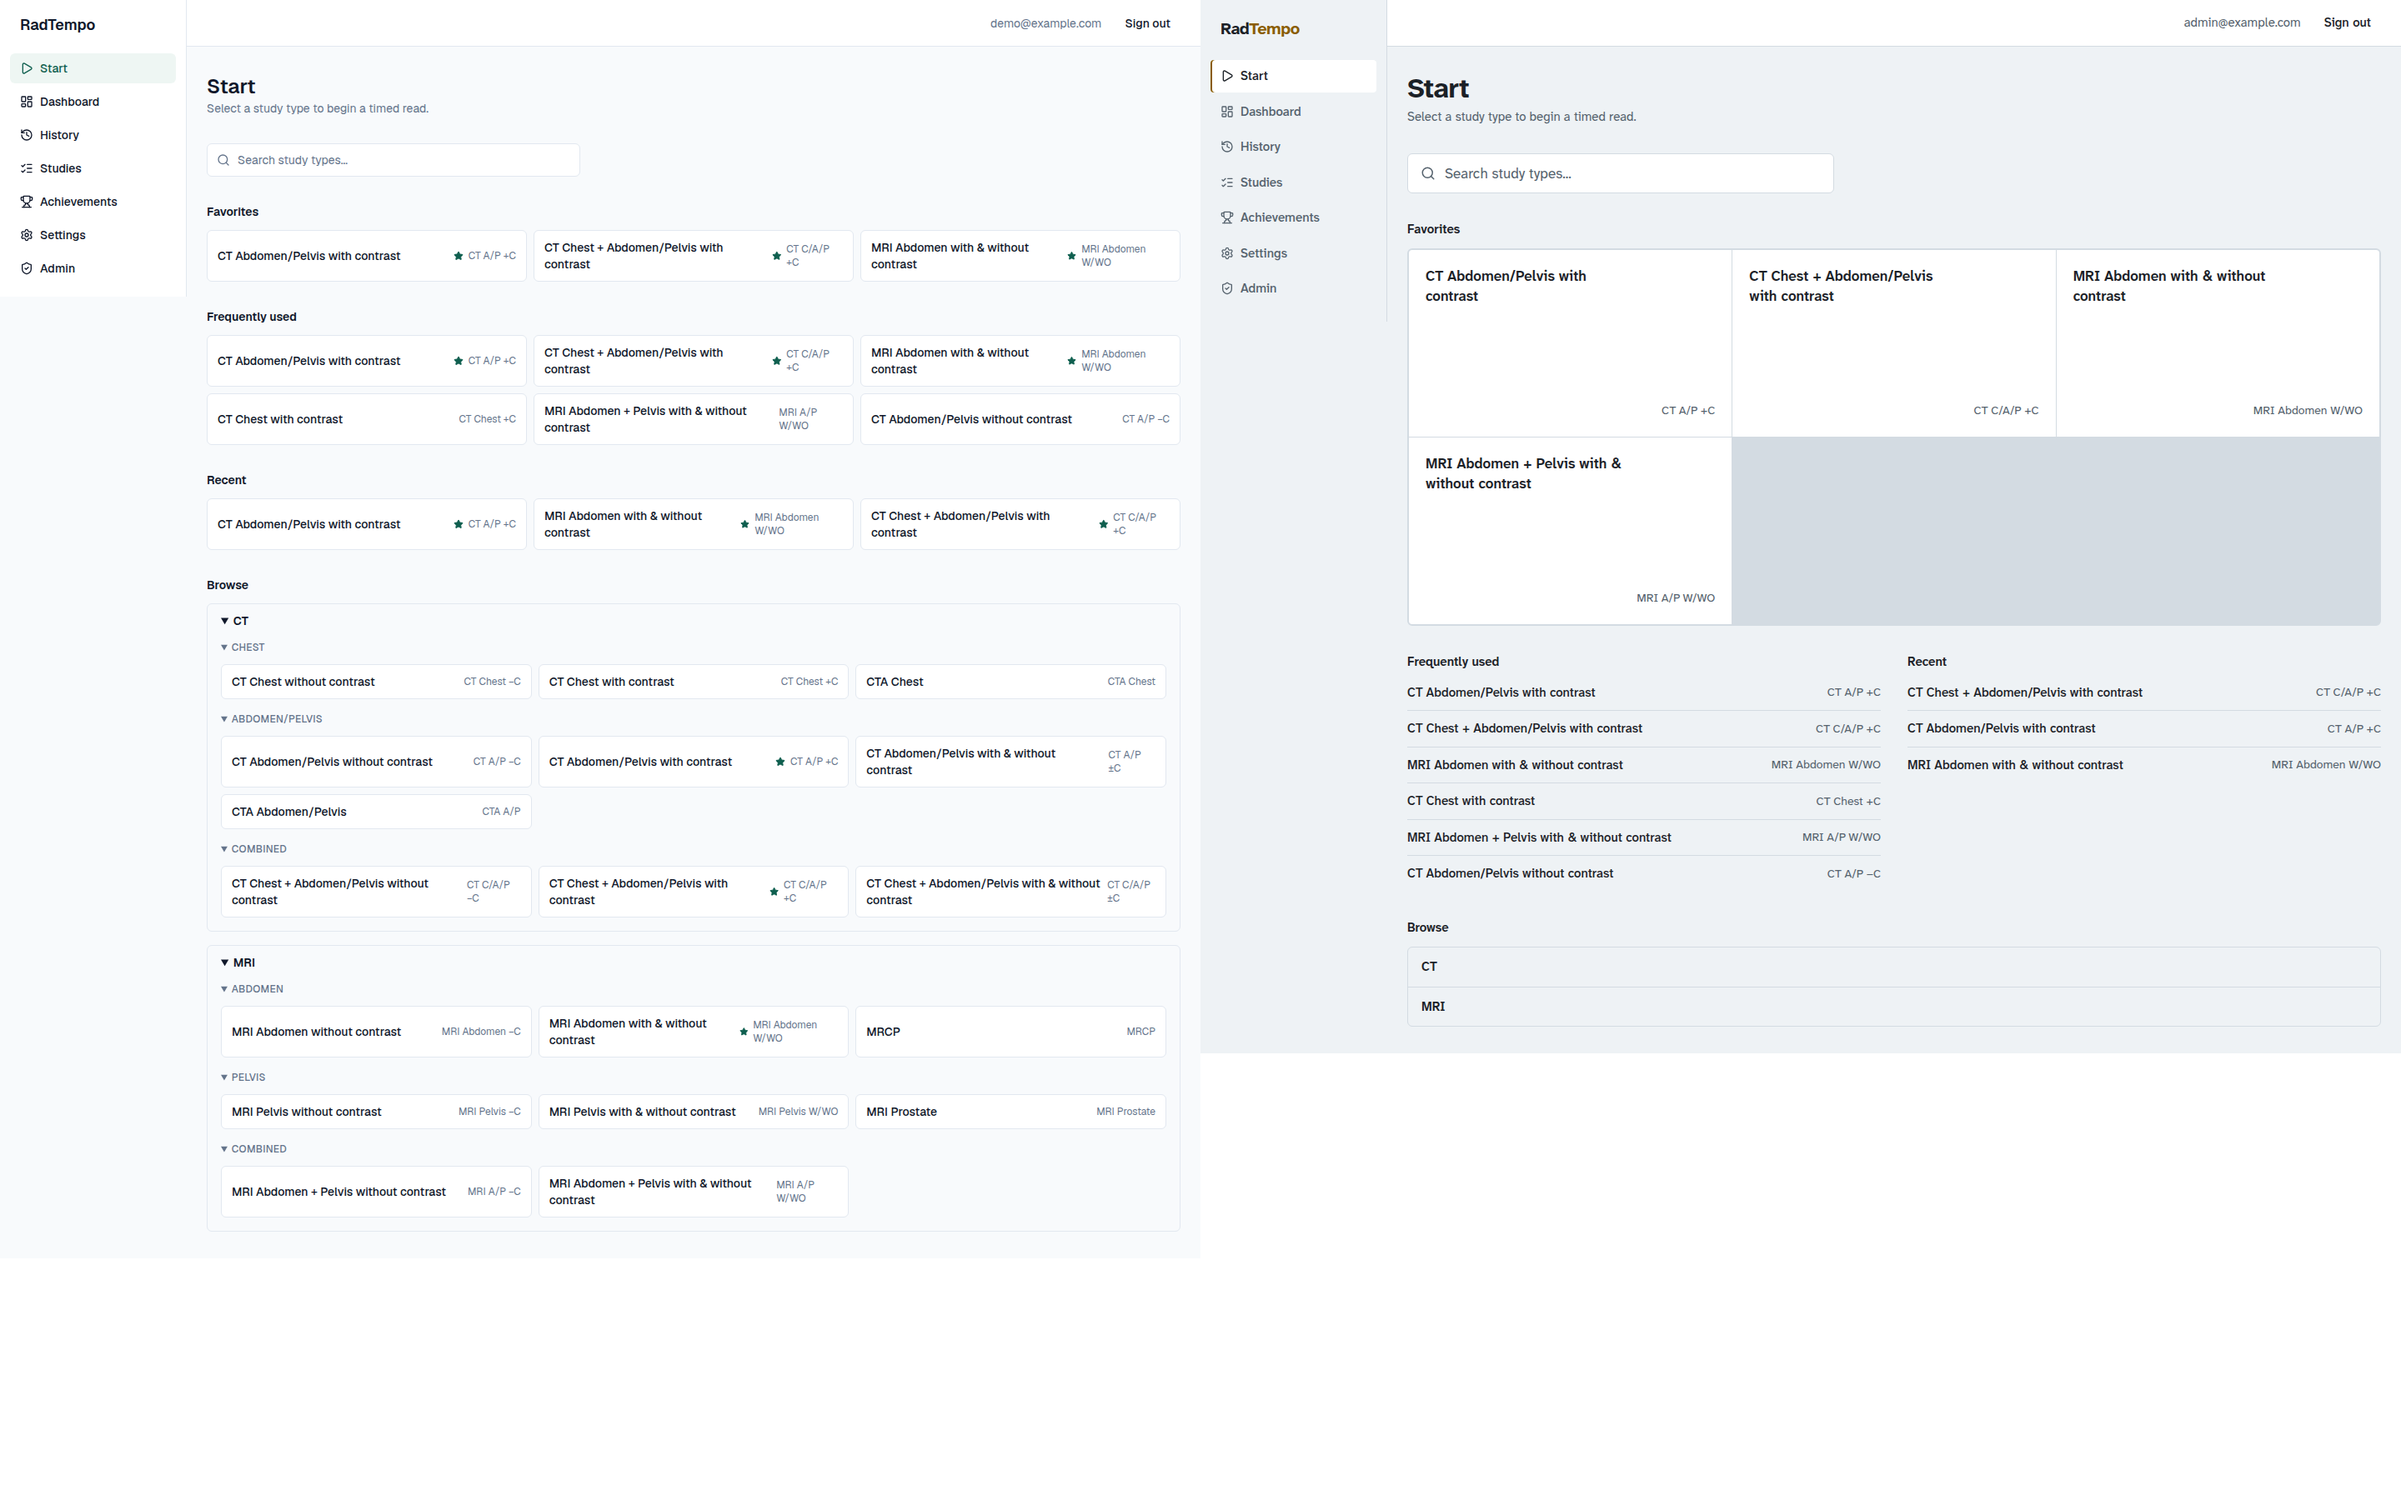
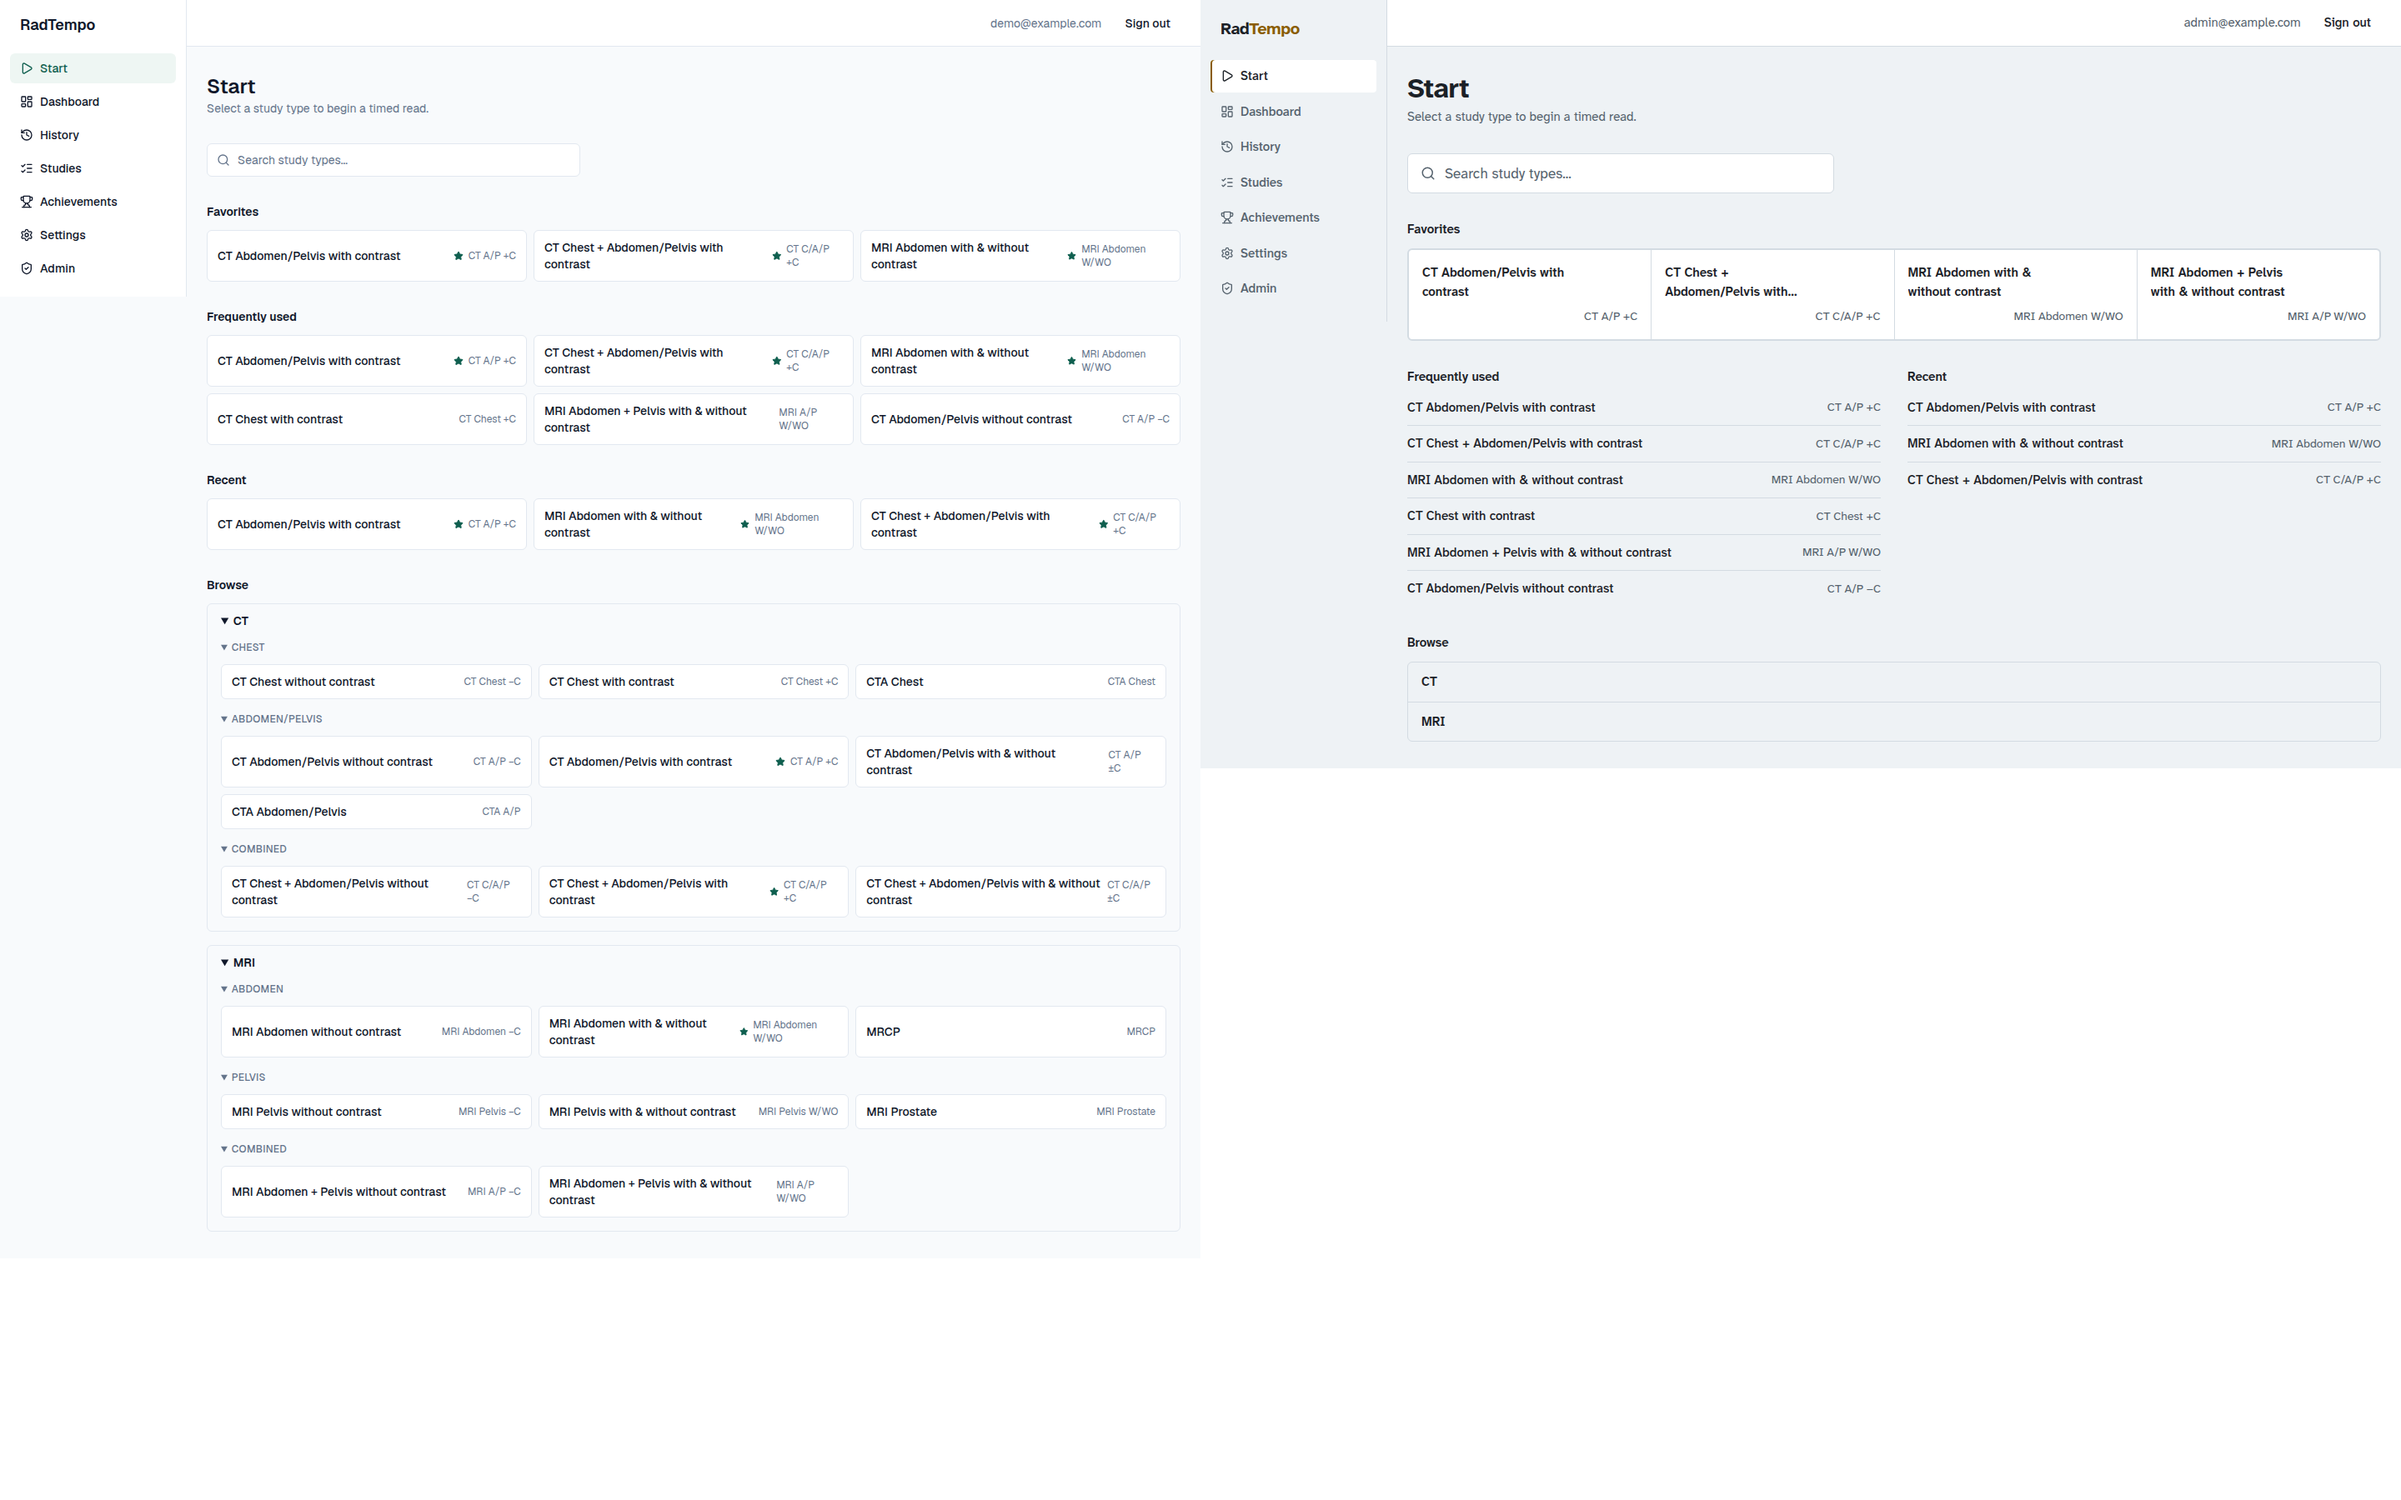
Design review fixes: re-screenshot affected pages, update DESIGN_NOTES
Recapture start, start-timer-running, post-case-panel, and analytics
(16 files) plus their before/after compare strips (8 files) against a
fresh build/fresh deterministic seed, reflecting the four review fixes
(compact no-gap favorite tiles, visible complexity bars, hero-sized
Caliper, sentence-case complexity labels). Add a "Post-review fixes"
section to DESIGN_NOTES.md §8 documenting what changed and how it was
reverified (lint/format/typecheck/test/build/e2e all green; 0 console
errors and 0 horizontal overflow across all 16 recaptures).

Claude-Session: https://claude.ai/code/session_019uTaHSBqdU1daCtL6RE1KB

diff --git a/DESIGN_NOTES.md b/DESIGN_NOTES.md
@@ -138,23 +138,23 @@ Subject: a personal instrument a radiologist keeps open beside PACS, often in a 
 
 #### Contrast table (computed from `src/app/globals.css` token values, WCAG 2.1 relative-luminance formula; script in `DESIGN_NOTES.md`-adjacent scratch, reproducible from the hex values below)
 
-| Pair | Light | Dark |
-|---|---|---|
-| Body text / background | 14.42:1 PASS | 13.05:1 PASS |
-| Body text / card | 16.24:1 PASS | 11.70:1 PASS |
-| Muted text / background | 5.56:1 PASS | 6.54:1 PASS |
-| Muted text / card | 6.26:1 PASS | 5.86:1 PASS |
-| Caliper (benchmark) text / background | 5.12:1 PASS | 8.56:1 PASS |
-| Caliper (benchmark) text / card | 5.76:1 PASS | 7.67:1 PASS |
-| Primary/link text / background | 6.31:1 PASS | 6.39:1 PASS |
-| Primary/link text / card | 7.10:1 PASS | 5.73:1 PASS |
-| Primary button text / primary fill | 7.10:1 PASS | 7.45:1 PASS |
-| Danger text / background | 5.84:1 PASS | 6.55:1 PASS |
-| Danger text / card | 6.57:1 PASS | 5.87:1 PASS |
-| Danger button text / danger fill | 6.57:1 PASS | 7.49:1 PASS |
-| Success text / background | 4.72:1 PASS | 9.37:1 PASS |
-| Body text / muted hover surface | 13.28:1 PASS | 10.78:1 PASS |
-| Input/select border / card (UI boundary, 3:1 target) | 3.58:1 PASS | 3.45:1 PASS |
+| Pair                                                 | Light        | Dark         |
+| ---------------------------------------------------- | ------------ | ------------ |
+| Body text / background                               | 14.42:1 PASS | 13.05:1 PASS |
+| Body text / card                                     | 16.24:1 PASS | 11.70:1 PASS |
+| Muted text / background                              | 5.56:1 PASS  | 6.54:1 PASS  |
+| Muted text / card                                    | 6.26:1 PASS  | 5.86:1 PASS  |
+| Caliper (benchmark) text / background                | 5.12:1 PASS  | 8.56:1 PASS  |
+| Caliper (benchmark) text / card                      | 5.76:1 PASS  | 7.67:1 PASS  |
+| Primary/link text / background                       | 6.31:1 PASS  | 6.39:1 PASS  |
+| Primary/link text / card                             | 7.10:1 PASS  | 5.73:1 PASS  |
+| Primary button text / primary fill                   | 7.10:1 PASS  | 7.45:1 PASS  |
+| Danger text / background                             | 5.84:1 PASS  | 6.55:1 PASS  |
+| Danger text / card                                   | 6.57:1 PASS  | 5.87:1 PASS  |
+| Danger button text / danger fill                     | 6.57:1 PASS  | 7.49:1 PASS  |
+| Success text / background                            | 4.72:1 PASS  | 9.37:1 PASS  |
+| Body text / muted hover surface                      | 13.28:1 PASS | 10.78:1 PASS |
+| Input/select border / card (UI boundary, 3:1 target) | 3.58:1 PASS  | 3.45:1 PASS  |
 
 All text pairs clear the 4.5:1 AA floor with headroom in both themes; the one UI (non-text) pair — form-control borders — clears the 3:1 floor after the `--input-border` fix above. `--border` (decorative dividers, table rules, card/viewport hairlines: ~1.4:1) intentionally does not target 3:1, since those are not the sole means of identifying an interactive component's boundary.
 
@@ -169,22 +169,22 @@ Fresh production build (`pnpm build`) against a clean `radtempo_demo_final` Post
 
 Every one of the 56 captures was loaded with `console`/`pageerror` listeners attached and checked for `document.documentElement.scrollWidth > window.innerWidth`.
 
-| Page | Desktop console errs | Desktop overflow | Mobile console errs | Mobile overflow |
-|---|---|---|---|---|
-| login | 0 | no | 0 | no |
-| setup | 0 | no | 0 | no |
-| onboarding | 0 | no | 0 | no |
-| start | 0 | no | 0 | no |
-| start-timer-running | 0 | no | 0 | no |
-| post-case-panel | 0 | no | 0 | no |
-| dashboard | 0 | no | 0 | no |
-| analytics | 0 | no | 0 | no |
-| history | 0 | no | 0 | no |
-| studies | 0 | no | 0 | no |
-| achievements | 0 | no | 0 | no |
-| settings | 0 | no | 0 | no |
-| settings-data | 0 | no | 0 | no |
-| admin | 0 | no | 0 | no |
+| Page                | Desktop console errs | Desktop overflow | Mobile console errs | Mobile overflow |
+| ------------------- | -------------------- | ---------------- | ------------------- | --------------- |
+| login               | 0                    | no               | 0                   | no              |
+| setup               | 0                    | no               | 0                   | no              |
+| onboarding          | 0                    | no               | 0                   | no              |
+| start               | 0                    | no               | 0                   | no              |
+| start-timer-running | 0                    | no               | 0                   | no              |
+| post-case-panel     | 0                    | no               | 0                   | no              |
+| dashboard           | 0                    | no               | 0                   | no              |
+| analytics           | 0                    | no               | 0                   | no              |
+| history             | 0                    | no               | 0                   | no              |
+| studies             | 0                    | no               | 0                   | no              |
+| achievements        | 0                    | no               | 0                   | no              |
+| settings            | 0                    | no               | 0                   | no              |
+| settings-data       | 0                    | no               | 0                   | no              |
+| admin               | 0                    | no               | 0                   | no              |
 
 **Zero console errors and zero horizontal overflow across all 56 desktop/mobile × light/dark combinations.**
 
@@ -201,6 +201,17 @@ Every after screenshot was reviewed directly (all 14 pages at both widths in lig
 - **States:** distinct empty states (no history yet vs. filtered-to-nothing, each with one clear next action), app-segment `loading.tsx`/`error.tsx` skeletons built on a static, non-shimmering `Skeleton` primitive, and a heavier skeleton for the study-detail analytics page.
 - **Accessibility:** skip link to `#main-content`; table captions/`scope="col"` headers on every data table; `--input-border` token so form controls clear the 3:1 non-text-contrast floor; verified focus-visible rings, icon-button `aria-label`s, dialog focus trapping, one `<h1>` per page, accessible text alternatives (`role="img"` + computed labels, `sr-only` summaries + data tables) for the Caliper and trend chart; every color-coded indicator pairs color with an icon or text label. Full contrast table in Step 6 above — all text pairs clear 4.5:1 AA in both themes.
 - **Motion:** the caliper marker's post-case slide now animates a compositor-only `transform` instead of the SVG `cx` attribute; confirmed every other transition is already compositor-safe/paint-limited, no scroll-linked motion or animated layout properties anywhere, and `prefers-reduced-motion` makes everything instant.
+
+### Post-review fixes (round 2)
+
+A design review of `docs/design/compare/*` caught four issues the first pass missed; all four are fixed in app code (not just screenshots) and reverified against a freshly rebuilt, freshly seeded instance (same approach as above):
+
+1. **Start favorites tiles too tall, empty gutter cell with 4 favorites.** `Viewport` gained a `compact` size (≈64–96px, `min-h-16 sm:min-h-24`) used only by Start's `FavoriteTile`, and `ViewportGrid` gained a `fitContent` mode that lays out tiles with `flex flex-wrap` instead of a fixed grid — each tile carries `flex-1`, so items on a partial last row stretch to fill it instead of leaving the container's border-colored background exposed as a bare cell. Verified at 1, 2, 4, and 5 favorites, desktop and mobile: every row fills edge-to-edge, no gutter-colored gaps, no overflow.
+2. **Complexity distribution bars nearly invisible.** Replaced the hairline `border-b` track/fill with solid bars: track is `bg-muted` (the already-audited ~5.6–6.5:1 muted-text color), fill is `bg-caliper`, both well clear of the 3:1 non-text-contrast floor in light and dark. Count text was already shown and is unchanged.
+3. **Analytics benchmark Caliper tiny and left-offset.** `Caliper` gained a `size` prop (`"sm"` default for the compact Dashboard cards, `"lg"` — 2× the vertical geometry — for the Analytics detail page); `CaliperPanel`/the page now render it at `size="lg"` and full panel width (`w-full`, no `max-w-xl` cap) instead of a narrow, left-aligned strip. The Dashboard's compact cards are unaffected (still `size="sm"`).
+4. **Complexity rendered as raw `TYPICAL`/`EASY`/`DIFFICULT` in Analytics' recent-cases table.** Added a shared `COMPLEXITY_LABEL` map (`src/features/analytics/types.ts`) and used it in the Analytics table (the actual bug), History's table (which already had an equivalent local helper — now delegates to the shared map), and the complexity-distribution row labels. Stored/compared values are untouched; only the label changed.
+
+Re-verified: `pnpm lint`, `format:check`, `typecheck`, `test` (54/54), `build`, and `pnpm e2e` (5/5) all pass. Recaptured `start`, `start-timer-running`, `post-case-panel`, and `analytics` (16 files) plus their 8 compare strips against a fresh build/fresh seed (same deterministic CT A/P +C 10%-faster data); all 16 recaptures show 0 console errors and 0 horizontal overflow, desktop and mobile, light and dark.
 
 ### Known gaps
 
